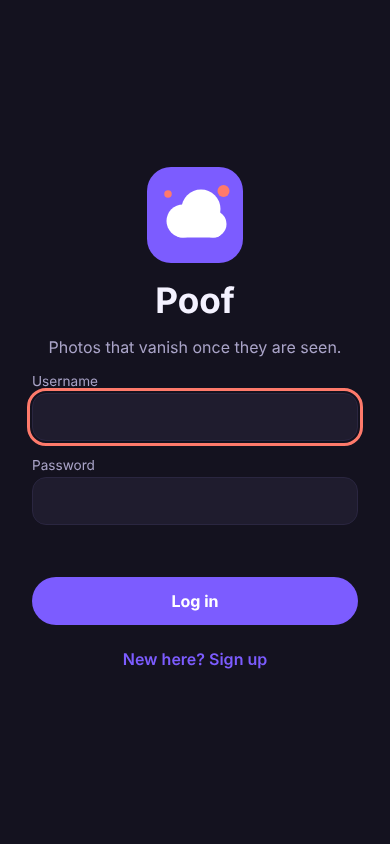
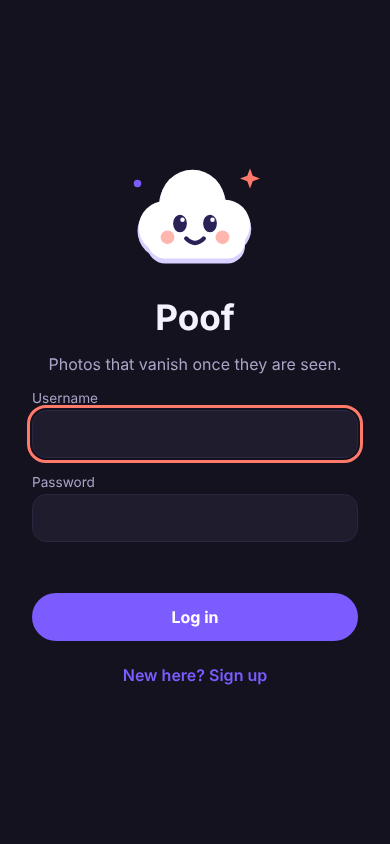
Add Puff, the Poof mascot
An original cloud character drawn in SVG with four moods (happy, wink,
sleepy, wow). Puff is now the app icon, greets you on the login screen,
naps on empty screens, and pops up with a "Poof!" animation when a snap
is sent or vanishes after viewing. Motion respects prefers-reduced-motion.

Claude-Session: https://claude.ai/code/session_01C67QfwNZ9zEYn62kCMNv7X

Changed region(s): [[0.0615, 0.1848, 0.9538, 0.5853], [0.0615, 0.6777, 0.9231, 0.8318]]

diff --git a/poof/public/app.js b/poof/public/app.js
@@ -73,6 +73,21 @@
     }, (user.displayName || user.username).slice(0, 1));
   }
 
+  // Puff, the mascot (see mascot.js). Decorative unless given a label.
+  function puff(mood, size, label) {
+    const el = h('span', { class: 'mascot', 'aria-hidden': label ? null : 'true' });
+    el.innerHTML = window.mascotSVG(mood, size, label || ''); // static markup, no user input
+    if (!label) el.firstElementChild.removeAttribute('role');
+    return el;
+  }
+
+  // a quick celebratory pop: Puff appears, then vanishes in a puff
+  function puffPop(text, mood = 'wink') {
+    const pop = h('div', { class: 'puff-pop', role: 'status' }, puff(mood, 150), h('strong', {}, text));
+    document.body.append(pop);
+    setTimeout(() => pop.remove(), 1300);
+  }
+
   function ago(ms) {
     const s = Math.max(1, Math.round((Date.now() - ms) / 1000));
     if (s < 60) return 'just now';
@@ -100,7 +115,7 @@
         btn.disabled = false;
       }
     } },
-      h('img', { class: 'logo', src: '/icon.svg', alt: '' }),
+      h('div', { class: 'logo float' }, puff('happy', 150, 'Puff, the Poof mascot')),
       h('h1', {}, 'Poof'),
       h('p', {}, signup ? 'Make an account. It takes ten seconds.' : 'Photos that vanish once they are seen.'),
       signup && h('label', { class: 'field' }, h('span', {}, 'Your name'),
@@ -389,7 +404,7 @@
       sendBtn.textContent = 'Sending…';
       try {
         await api('/api/snaps', { to: [...picked], story, image, duration: state.editor.timer });
-        toast(story && !picked.size ? 'Posted to your story' : 'Sent!');
+        puffPop(story && !picked.size ? 'Posted to your story' : 'Poof! Sent');
         go('chat');
       } catch (e) {
         toast(e.message);
@@ -407,7 +422,7 @@
     h('span', { class: 'check', 'aria-hidden': 'true' }, '✓'));
     list.replaceChildren(storyRow, h('h2', { class: 'section-title' }, 'Friends'));
     if (!data.friends.length) {
-      list.append(h('div', { class: 'empty' }, h('strong', {}, 'No friends yet'),
+      list.append(h('div', { class: 'empty' }, puff('sleepy', 110), h('strong', {}, 'No friends yet'),
         'Add someone by username to send them snaps. You can still post to your story.',
         h('div', { style: 'margin-top:16px' }, h('button', { class: 'btn ghost small', onclick: () => go('friends') }, 'Add friends'))));
     }
@@ -446,7 +461,7 @@
       state.unread = rows.reduce((n, r) => n + r.snapIds.length + r.unread, 0);
       app.querySelector('.nav')?.replaceWith(nav('chat'));
       if (!rows.length) {
-        list.replaceChildren(h('div', { class: 'empty' }, h('strong', {}, 'Nobody to talk to yet'),
+        list.replaceChildren(h('div', { class: 'empty' }, puff('sleepy', 120), h('strong', {}, 'Nobody to talk to yet'),
           'Add friends by username, then snap them from the camera.',
           h('div', { style: 'margin-top:16px' }, h('button', { class: 'btn small', onclick: () => go('friends') }, 'Add friends'))));
         return;
@@ -490,7 +505,11 @@
     svg.append(track, bar);
     let timer = null;
     let raf = null;
-    const close = () => { clearTimeout(timer); cancelAnimationFrame(raf); go('chat'); };
+    let viewed = 0;
+    const close = () => {
+      clearTimeout(timer); cancelAnimationFrame(raf); go('chat');
+      if (viewed) puffPop('Poof! Gone for good', 'wow');
+    };
     const next = async () => {
       clearTimeout(timer);
       cancelAnimationFrame(raf);
@@ -499,6 +518,7 @@
       let snap;
       try { snap = await api(`/api/snaps/${id}/open`, {}); } catch (e) { toast(e.message); return next(); }
       img.src = snap.image;
+      viewed++;
       svg.style.visibility = snap.duration ? 'visible' : 'hidden';
       if (snap.duration) {
         const startAt = performance.now();
@@ -545,7 +565,7 @@
           onclick: async () => { try { await api(`/api/messages/${m.id}/save`, {}); load(); } catch (e) { toast(e.message); } },
         }, m.text, h('small', {}, ago(m.createdAt) + (m.saved ? ' · kept' : '') +
           (m.from === state.me.id ? (m.readAt ? ' · read' : ' · sent') : '')))));
-      if (!data.messages.length) thread.append(h('div', { class: 'empty' }, 'Say hi to ' + friend.displayName + ' 👋'));
+      if (!data.messages.length) thread.append(h('div', { class: 'empty' }, puff('happy', 100), 'Say hi to ' + friend.displayName + ' 👋'));
       if (atBottom || !thread.dataset.loaded) thread.scrollTop = thread.scrollHeight;
       thread.dataset.loaded = '1';
     }
@@ -574,7 +594,7 @@
             h('div', { class: 'sub' }, ago(g.stories.at(-1).createdAt) + (seen ? ' · watched' : ''))));
       });
       list.replaceChildren(mineRow, h('h2', { class: 'section-title' }, 'Friends'),
-        ...(rows.length ? rows : [h('div', { class: 'empty' }, h('strong', {}, 'Nothing new'),
+        ...(rows.length ? rows : [h('div', { class: 'empty' }, puff('sleepy', 110), h('strong', {}, 'Nothing new'),
           'When friends post to their story it shows up here for 24 hours.')]));
     };
     state.refresh = load;
@@ -675,7 +695,7 @@
         ...data.outgoing.map((u) => h('div', { class: 'row' }, avatar(u),
           h('span', { class: 'main' }, h('div', { class: 'name' }, u.displayName), h('div', { class: 'sub' }, '@' + u.username + ' · pending')))),
         !data.incoming.length && !data.outgoing.length && q.length < 2
-          ? h('div', { class: 'empty' }, h('strong', {}, 'Find your friends'), 'Type a username to send a request.') : null,
+          ? h('div', { class: 'empty' }, puff('wow', 110), h('strong', {}, 'Find your friends'), 'Type a username to send a request.') : null,
       ].filter(Boolean));
     }
     state.refresh = () => Promise.all([runSearch(), loadRequests()]);

diff --git a/poof/public/mascot.js b/poof/public/mascot.js
@@ -1,0 +1,51 @@
+'use strict';
+// Puff, the Poof mascot: a small cloud that vanishes. Drawn in code so it
+// scales anywhere and can change mood. mascotSVG(mood, size) -> SVG string.
+(() => {
+  const FACES = {
+    happy: {
+      eyes: '<ellipse cx="48" cy="58" rx="5" ry="6.5"/><ellipse cx="72" cy="58" rx="5" ry="6.5"/>',
+      mouth: '<path d="M53 70 Q60 77 67 70" fill="none" stroke-width="3.5" stroke-linecap="round"/>',
+    },
+    wink: {
+      eyes: '<ellipse cx="48" cy="58" rx="5" ry="6.5"/><path d="M66 59 Q72 53 78 59" fill="none" stroke-width="3.5" stroke-linecap="round"/>',
+      mouth: '<path d="M53 69 Q60 78 67 69 Z" stroke-width="2" stroke-linejoin="round"/>',
+    },
+    sleepy: {
+      eyes: '<path d="M42 59 Q48 64 54 59" fill="none" stroke-width="3.5" stroke-linecap="round"/><path d="M66 59 Q72 64 78 59" fill="none" stroke-width="3.5" stroke-linecap="round"/>',
+      mouth: '<ellipse cx="60" cy="72" rx="3" ry="2.5"/>',
+      extra: '<text x="8" y="26" font-size="14" font-weight="800" font-family="system-ui,sans-serif" fill="#a9a3c7">z</text><text x="20" y="14" font-size="10" font-weight="800" font-family="system-ui,sans-serif" fill="#a9a3c7">z</text>',
+    },
+    wow: {
+      eyes: '<circle cx="48" cy="57" r="6.5"/><circle cx="72" cy="57" r="6.5"/>',
+      mouth: '<ellipse cx="60" cy="73" rx="5" ry="6"/>',
+    },
+  };
+
+  function mascotSVG(mood = 'happy', size = 96, label = 'Puff, the Poof mascot') {
+    const f = FACES[mood] || FACES.happy;
+    const glints = mood === 'happy' || mood === 'wow' || mood === 'wink'
+      ? '<circle cx="50" cy="55" r="1.8" fill="#fff"/>' + (mood === 'wink' ? '' : '<circle cx="74" cy="55" r="1.8" fill="#fff"/>')
+      : '';
+    return `<svg xmlns="http://www.w3.org/2000/svg" viewBox="0 0 120 100" width="${size}" height="${Math.round(size * 100 / 120)}" role="img" aria-label="${label}">
+  <g fill="#d9d1ff">
+    <circle cx="36" cy="64" r="22"/><circle cx="58" cy="44" r="27"/><circle cx="84" cy="62" r="21"/>
+    <rect x="22" y="62" width="78" height="28" rx="14"/>
+  </g>
+  <g fill="#ffffff">
+    <circle cx="36" cy="61" r="21"/><circle cx="58" cy="41" r="26"/><circle cx="84" cy="59" r="20"/>
+    <rect x="22" y="58" width="78" height="28" rx="14"/>
+  </g>
+  <circle cx="38" cy="69" r="5.5" fill="#ff7a6b" opacity=".55"/>
+  <circle cx="82" cy="69" r="5.5" fill="#ff7a6b" opacity=".55"/>
+  <g fill="#2a2257" stroke="#2a2257">${f.eyes}${f.mouth}</g>
+  ${glints}
+  <path d="M104 14 l2.2 5.8 5.8 2.2 -5.8 2.2 -2.2 5.8 -2.2 -5.8 -5.8 -2.2 5.8 -2.2z" fill="#ff7a6b"/>
+  ${mood === 'sleepy' ? '' : '<circle cx="14" cy="26" r="3" fill="#7c5cff"/>'}
+  ${f.extra || ''}
+</svg>`;
+  }
+
+  window.mascotSVG = mascotSVG;
+  window.mascotMoods = Object.keys(FACES);
+})();

diff --git a/poof/public/styles.css b/poof/public/styles.css
@@ -53,7 +53,22 @@ button { cursor: pointer; }
 
 /* Auth */
 .auth { justify-content: center; padding: var(--space-6); gap: var(--space-4); }
-.auth .logo { width: 96px; height: 96px; margin: 0 auto; }
+.auth .logo { margin: 0 auto; }
+.mascot { display: inline-block; line-height: 0; }
+.mascot svg { display: block; }
+.empty .mascot { display: block; width: fit-content; margin: 0 auto var(--space-3); }
+.float { animation: float 3.2s ease-in-out infinite; }
+@keyframes float { 50% { transform: translateY(-8px); } }
+.puff-pop { position: fixed; inset: 0; z-index: 60; display: flex; flex-direction: column; align-items: center; justify-content: center; gap: var(--space-3); pointer-events: none; color: var(--text); font-size: 1.3rem; text-shadow: 0 2px 8px rgb(0 0 0 / .6); animation: puff-pop 1.3s ease-out forwards; }
+@keyframes puff-pop {
+  0% { opacity: 0; transform: scale(.4); }
+  25% { opacity: 1; transform: scale(1.08); }
+  70% { opacity: 1; transform: scale(1); filter: blur(0); }
+  100% { opacity: 0; transform: scale(1.5); filter: blur(6px); }
+}
+@media (prefers-reduced-motion: reduce) {
+  .float, .puff-pop { animation: none; }
+}
 .auth h1 { text-align: center; margin: 0; font-size: 2.2rem; }
 .auth p { text-align: center; color: var(--text-dim); margin: 0; }
 .field { display: flex; flex-direction: column; gap: var(--space-1); }

diff --git a/poof/public/index.html b/poof/public/index.html
@@ -12,6 +12,7 @@
 <body>
   <main id="app" aria-live="polite"></main>
   <div id="toast" role="status" hidden></div>
+  <script src="/mascot.js"></script>
   <script src="/app.js"></script>
 </body>
 </html>

diff --git a/poof/README.md b/poof/README.md
@@ -7,6 +7,13 @@ after they open it. Plus disappearing chat, 24-hour stories and streaks.
 Built clean-room with the [replica](https://github.com/Jakeschincariol/replica-skill)
 method; the planning files are in [`replica/`](replica/).
 
+## Meet Puff
+
+Puff is the Poof mascot: a little cloud that vanishes, the way your snaps
+do. Drawn in code (`public/mascot.js`) in four moods (happy, wink, sleepy,
+wow). Puff is the app icon, greets you on the login screen, naps on empty
+screens, and pops up with a "Poof!" when you send a snap or one disappears.
+
 ## Run it
 
 Needs Node 18 or newer. Nothing to install.
